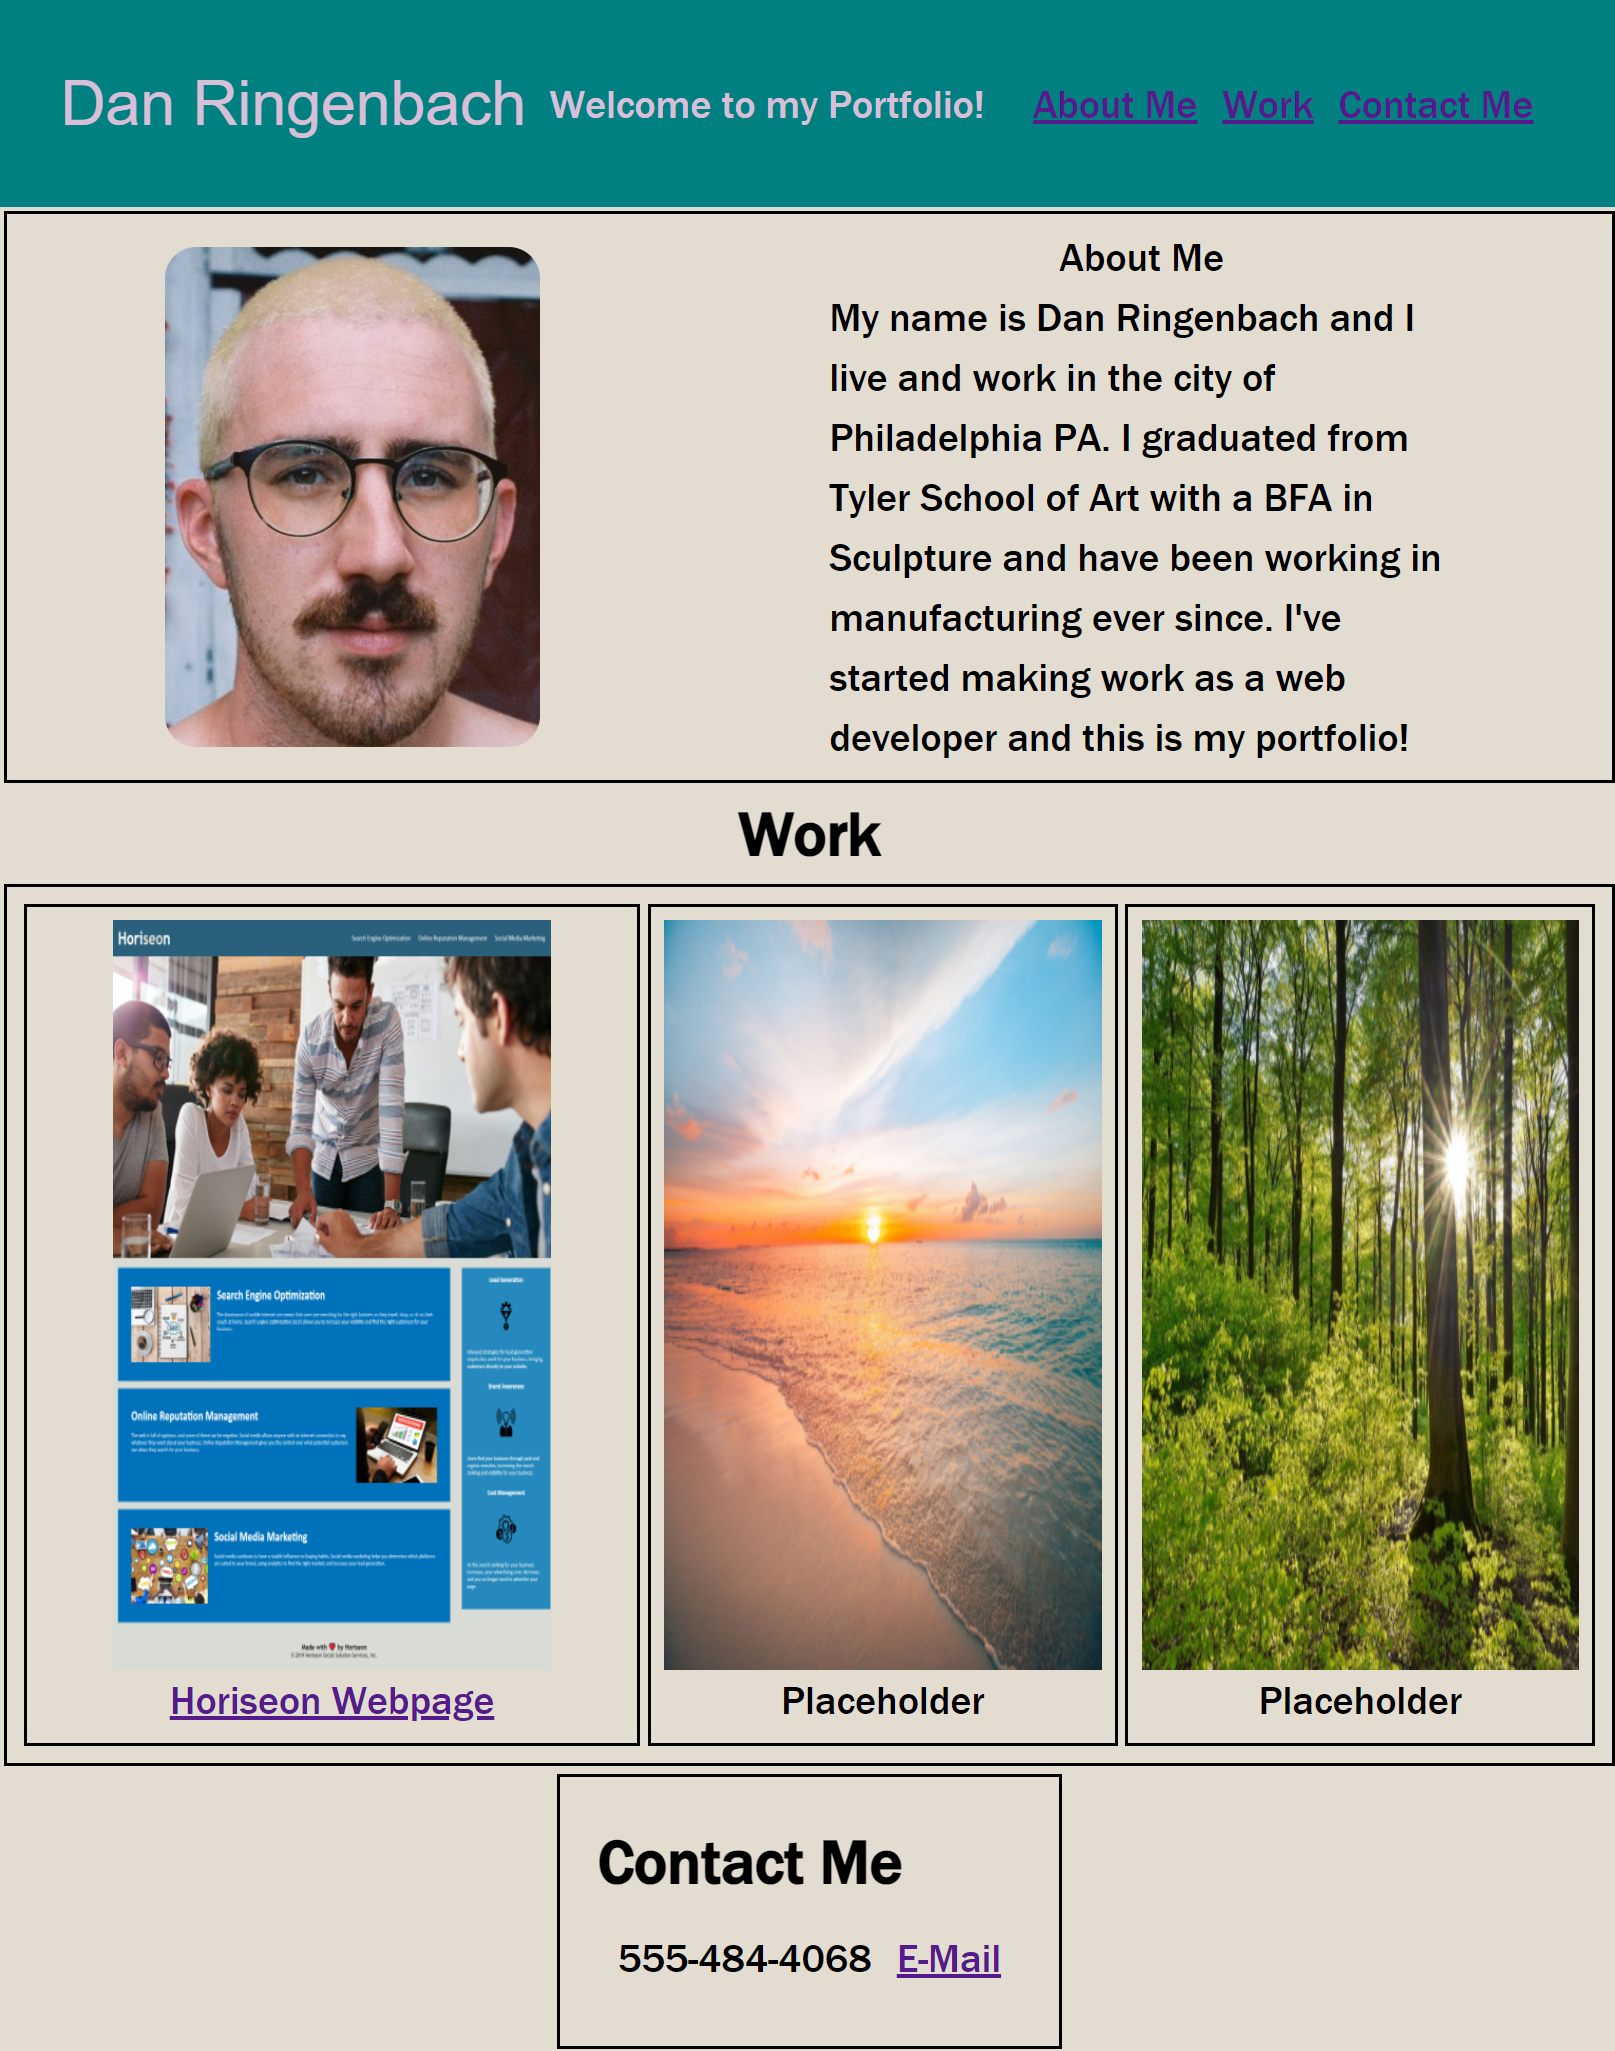
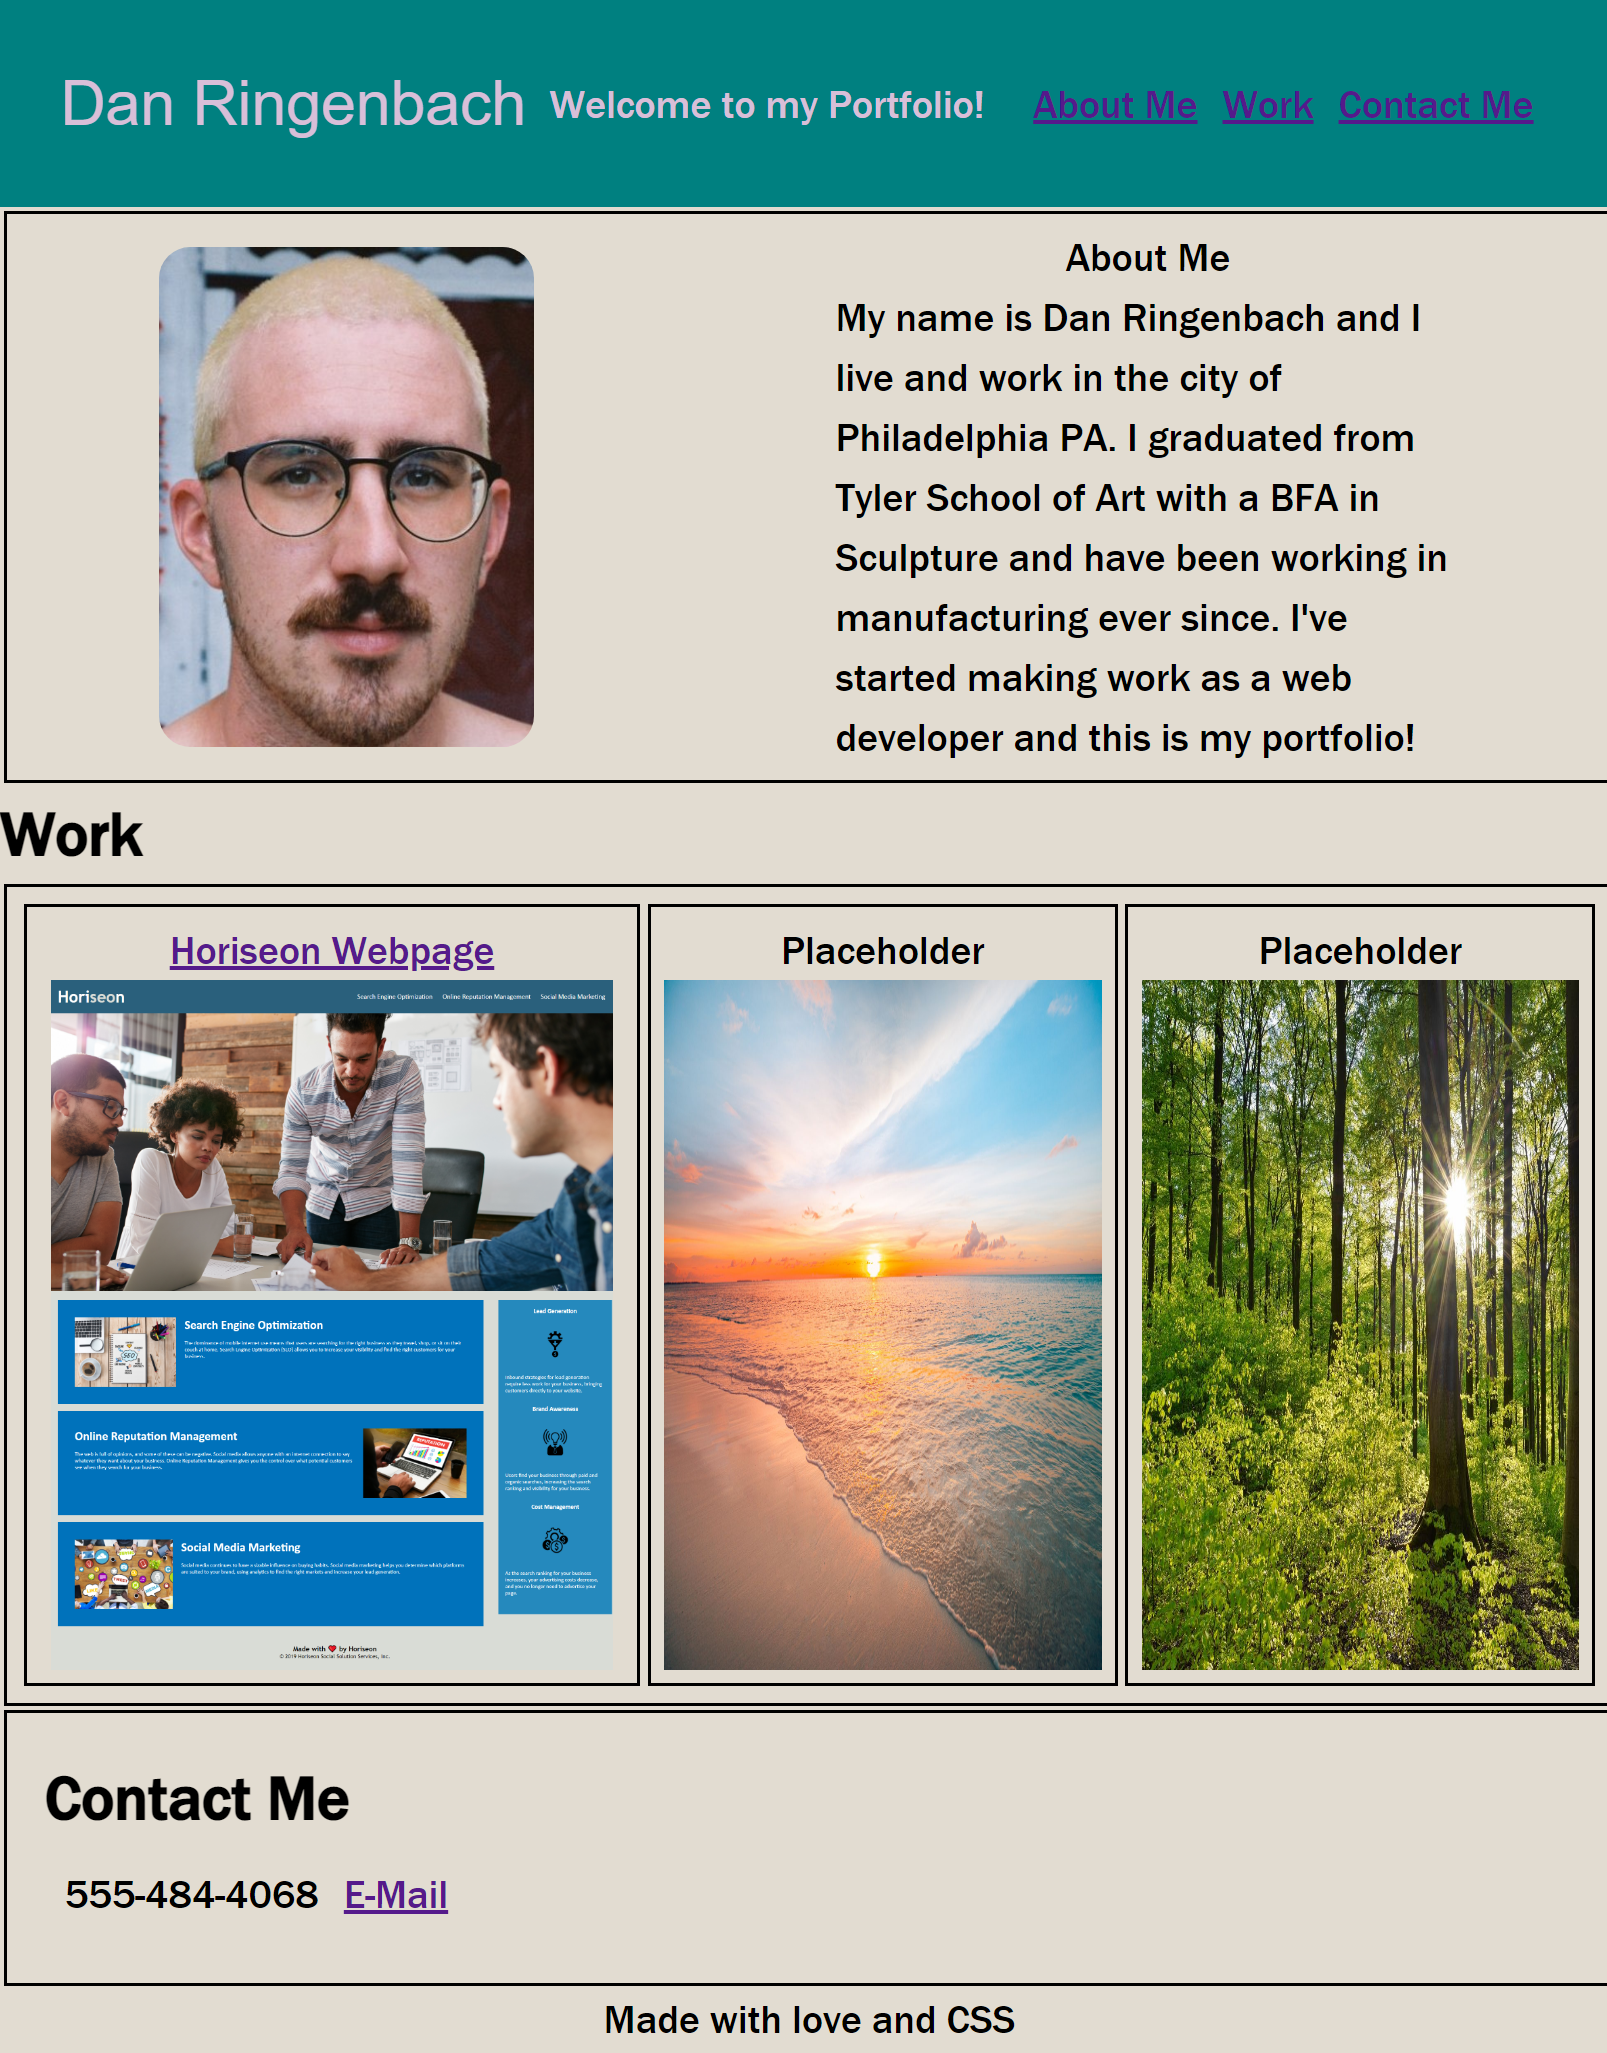
modify index.html, screenshot2.png, style.css

diff --git a/index.html b/index.html
@@ -11,7 +11,7 @@
 <body>
     <header>
         <h1>Dan Ringenbach</h1>
-        <h2>Welcome to my Portfolio!</h2>
+            <h2>Welcome to my Portfolio!</h2>
         <nav>
             <ul>
                 <li><a href="#aboutme">About Me</a></li>
@@ -23,9 +23,9 @@
     </header>
         <section class="aboutme" id="aboutme">
             <img id="image" src="assets/images/propic.jpg" alt="portfoliopic">
-            <div id="aboutmedescr">
-            <h1>About Me</h1>
-                <p>My name is Dan Ringenbach and I live and work in the city of Philadelphia PA.  I graduated from Tyler School of Art with a BFA in Sculpture and have been working in manufacturing ever since. I've started making work as a web developer and this is my portfolio!</p>
+                <div id="aboutmedescr">
+                    <h1>About Me</h1>
+                        <p>My name is Dan Ringenbach and I live and work in the city of Philadelphia PA.  I graduated from Tyler School of Art with a BFA in Sculpture and have been working in manufacturing ever since. I've started making work as a web developer and this is my portfolio!</p>
             </div>
         </section>
     <main>
@@ -33,17 +33,17 @@
         <section class="work" id="work">
             <section class="card" id="mainproject">
                 <img class="horiseon" src="assets/images/screenshot.png" alt="horiseon screenshot">
-                <h2>
-                    <a href="https://danringenbach.github.io/01-Code-Refractor/">Horiseon Webpage</a>
-                </h2>
+                    <h2>
+                        <a href="https://danringenbach.github.io/01-Code-Refractor/">Horiseon Webpage</a>
+                    </h2>
             </section>
-            <section class="card" id="placeholder">
-                <img class="placeholder1" src="assets/images/placeholder1.jpg" alt="sunset">
-                <h2>Placeholder</h2>
+                <section class="card" id="placeholder">
+                    <img class="placeholder1" src="assets/images/placeholder1.jpg" alt="sunset">
+                        <h2>Placeholder</h2>
             </section>
-            <section class="card" id="placeholder">
-                <img class="placeholder2" src="assets/images/placeholder2.jpg" alt="forest">
-                <h2>Placeholder</h2>
+                <section class="card" id="placeholder">
+                    <img class="placeholder2" src="assets/images/placeholder2.jpg" alt="forest">
+                        <h2>Placeholder</h2>
             </section>
         </section>
         <section class="contactme" id="contactme">
@@ -56,7 +56,7 @@
         </section>
     </main>
                 
-    <footer></footer>
+    <footer>Made with love and CSS</footer>
 </body>
                 
             

diff --git a/assets/css/style.css b/assets/css/style.css
@@ -1,6 +1,5 @@
 * {
     font-family: 'Franklin Gothic Medium', 'Arial Narrow', Arial, sans-serif;
-    /* background-color: antiquewhite; */
 }
 
 body {
@@ -9,19 +8,14 @@ body {
     flex-direction: column;
     background-color: rgb(226, 220, 209);
     font-size: 2rem;
-    line-height: 1.5;
-    
-}
-main {
-    display: flex;
-    flex-direction: column;
-    align-items: center;
+    line-height: 1.5;    
 }
 
 main h1 {
     font-size: 50px;
     font-weight: bold;
 }
+
 header {
     display: flex;
     justify-content:space-around;
@@ -74,8 +68,8 @@ header h2 {
 .work {
     display: flex;
     flex-wrap: wrap;
-    flex: 1 0 0;
-    justify-content: space-between;
+    flex: 1 1 0;
+    justify-content: space-around;
     align-items:center;
     padding: 10px;
     border: 3px;
@@ -85,6 +79,7 @@ header h2 {
 
 .contactme {
     flex: 1 0 0;
+    align-self:center;
     padding: 30px;
     border: 3px;
     border-style: solid;
@@ -115,8 +110,6 @@ header h2 {
     border: 3px;
     border-style: solid;
     margin: 3px;
-    /* width:600px; */
-    /* height:600px; */
 }
 
 .card {
@@ -130,14 +123,12 @@ header h2 {
    
 }     
 
-
 #mainproject img {
     height: 700px;
     width: 450px;
 }
 
 .card h2 {
-    /* position: relative; */
     top: 10px;
     right:25px;
     display: flex;
@@ -146,7 +137,7 @@ header h2 {
 
 .contactme ul {
     display: flex;
-    justify-content: space-between;
+    justify-content:left;
     margin: 3px;
     padding: 3px;
     min-width: 300px;
@@ -166,6 +157,11 @@ nav ul {
     margin: 5px;
     padding: 5px;
     min-width: 400px;
+}
+
+footer {
+    display:flex;
+    align-self: center;
 }
 
 @media screen and (max-width: 900px) {
